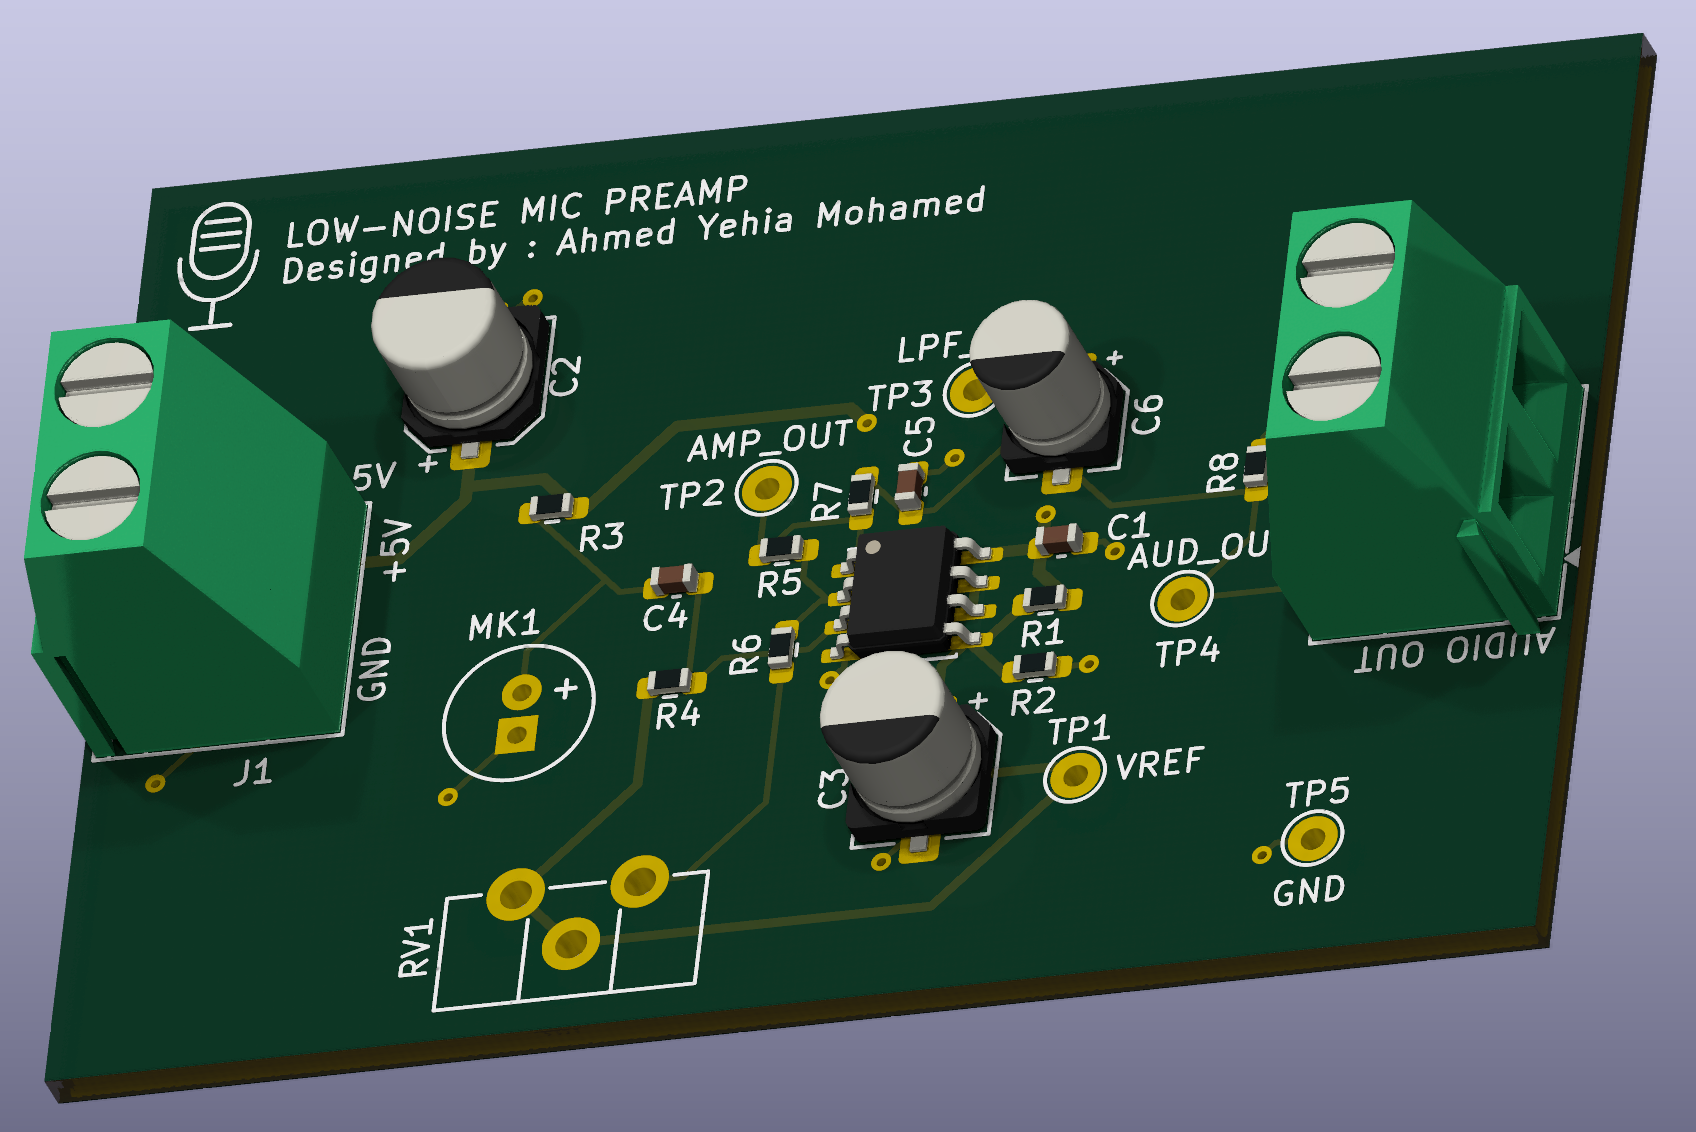
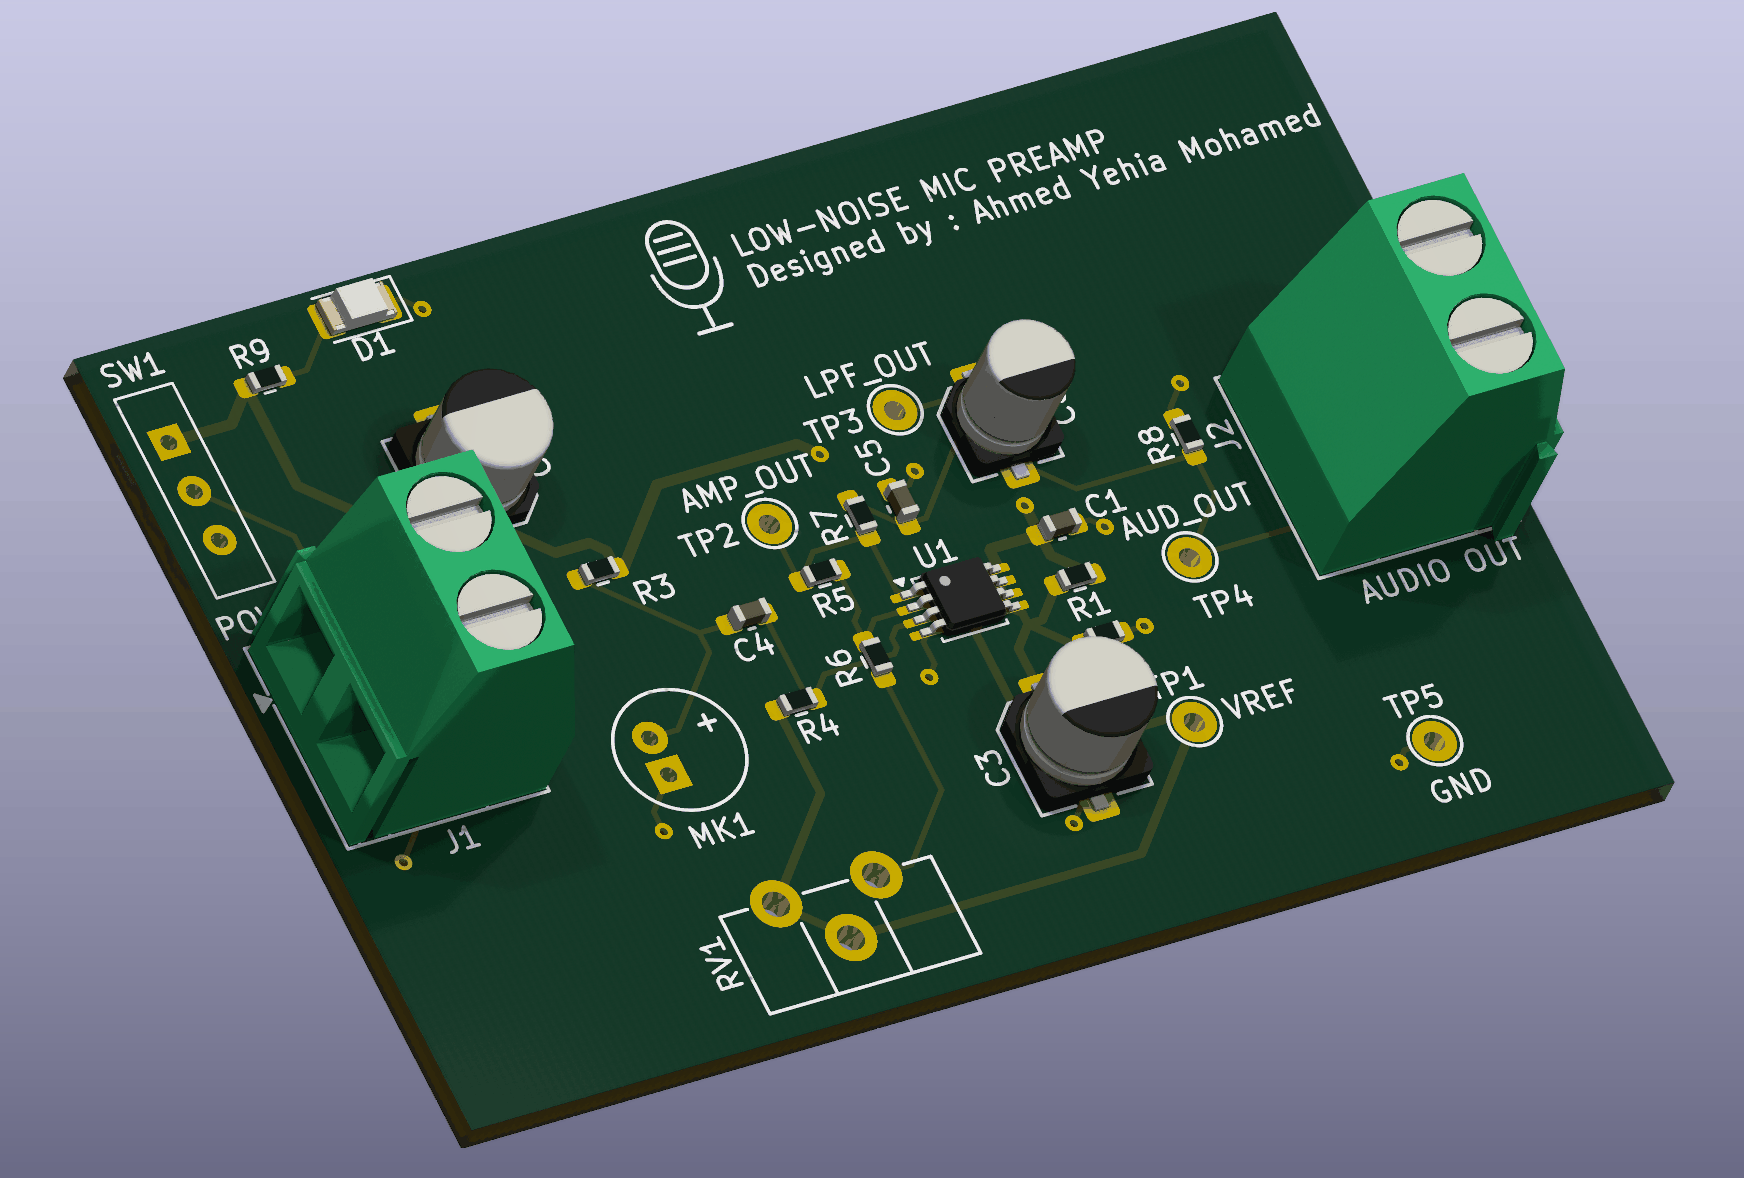
Updated PCB 3D renders

diff --git a/README.md b/README.md
@@ -4,6 +4,8 @@ A 5 V single-supply electret microphone preamplifier designed in KiCad 10. The p
 
 **Status:** PCB design finalized and released for fabrication. Assembly and bench testing are pending. The original LTspice results in this repository use an **OPA165x model**, not the AD8656 used in the final PCB design.
 
+![PCB 3D top view](docs/kicad/pcb_3d_top.png)
+
 ## Project files
 
 - [Editable KiCad schematic](hardware/kicad/Microphone.kicad_sch)
@@ -115,11 +117,15 @@ The final board was checked in KiCad with **zero DRC errors, warnings, unconnect
 
 [View the full-resolution schematic](docs/kicad/Microphone.svg)
 
-The editable KiCad source files above contain the final PCB revision. The 3D renders in `docs/kicad/` still show an earlier layout and will be replaced.
+The editable KiCad source files above contain the final PCB revision. The 3D previews show the final PCB layout; footprints without an associated 3D component model may appear unpopulated.
 
 ### Routed PCB layout
 
 ![Final routed PCB layout](docs/kicad/pcb_layout_top.png)
+
+### Angled 3D view
+
+![PCB angled 3D render](docs/kicad/pcb_3d_angle.png)
 
 ## LTspice simulation — earlier op-amp revision
 
